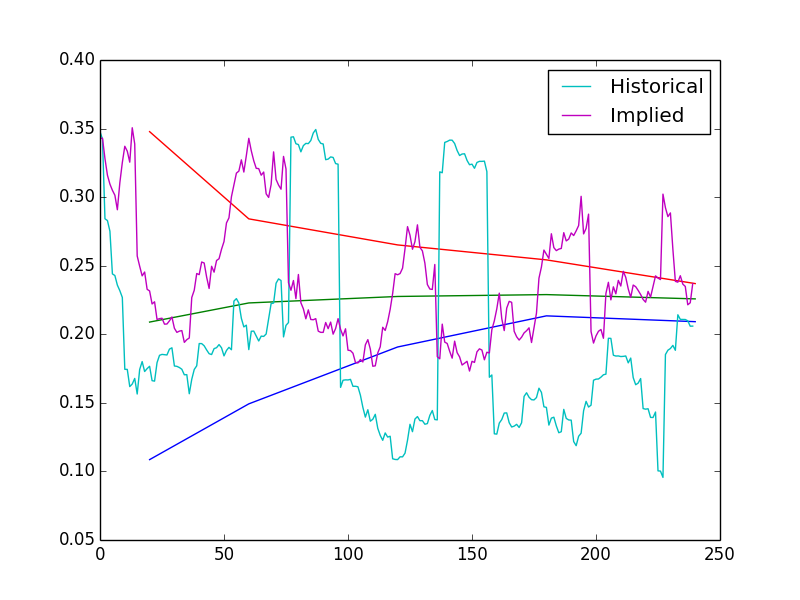
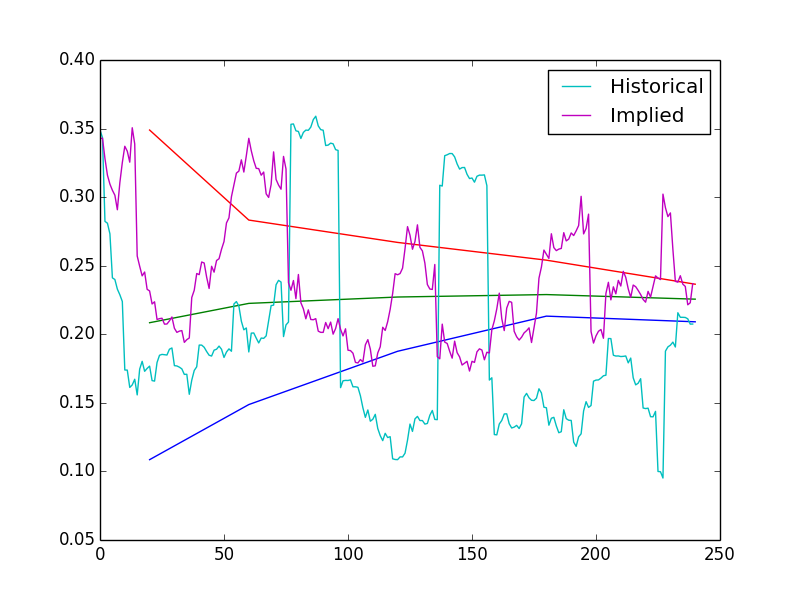
Switched to log returns on return calculation and updated chart

diff --git a/python/cones/volatility_cones.py b/python/cones/volatility_cones.py
@@ -1,4 +1,4 @@
-from numpy import sqrt
+from numpy import log, sqrt
 import numpy as np
 import pandas as pd
 from pylab import legend, plot, show
@@ -12,7 +12,7 @@ def main():
     imp_vol.sort_index(inplace=True)
 
     prices['Adj Returns'] = \
-        calculate_returns(prices['Adj Close'].values)
+        calculate_log_returns(prices['Adj Close'].values)
     close_data = prices['Adj Returns'][-300:].values
     imp_vol_data = imp_vol['30d iv mean'][-300:].values
 
@@ -76,9 +76,9 @@ def calc_sigma(N, X):
     return sqrt(sum((X - X.mean())**2) / float(N)) * sqrt(252.0)
 
 
-def calculate_returns(pnl):
+def calculate_log_returns(pnl):
     lagged_pnl = lag(pnl)
-    returns = (pnl - lagged_pnl) / lagged_pnl
+    returns = log(pnl / lagged_pnl)
 
     # All values prior to our position opening in pnl will have a
     # value of inf. This is due to division by 0.0
@@ -89,9 +89,9 @@ def calculate_returns(pnl):
 
 
 def lag(data):
-    lag = np.roll(data, 1)
-    lag[0] = 0.
-    return lag
+    lagged = np.roll(data, 1)
+    lagged[0] = 0.
+    return lagged
 
 
 if __name__ == '__main__':
